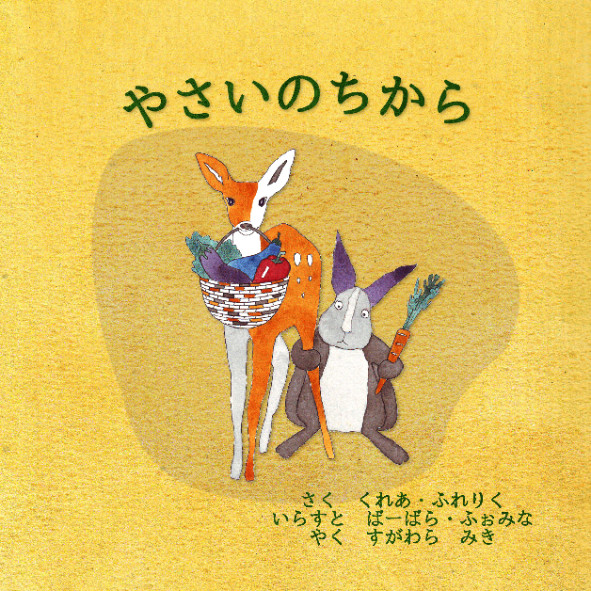
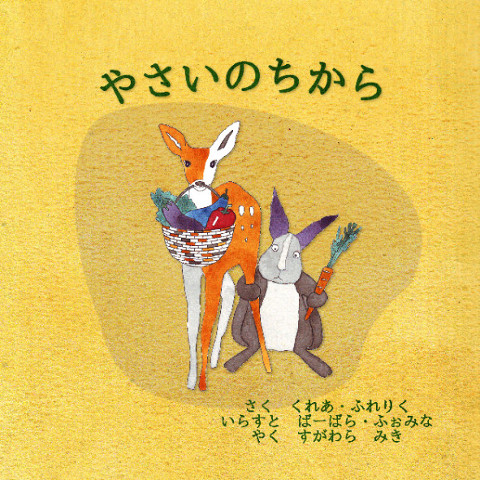
add fr book cover

diff --git a/src/pages/books.ja.js b/src/pages/books.ja.js
@@ -7,6 +7,7 @@ import { Link } from '../components/link'
 // images
 import imgEN from '../../static/images/thumbs/thumb_en.jpg'
 import imgJA from '../../static/images/thumbs/thumb_ja.jpg'
+import imgFR from '../../static/images/thumbs/thumb_fr.jpg'
 
 export default () => (
   <div className="page-books">
@@ -36,7 +37,7 @@ export default () => (
         renderLang='ja'
       />
       <BookCard
-        cover={imgEN}
+        cover={imgFR}
         lang="フランス語"
         kindleLink="#"
         paperbackLink="#"

diff --git a/src/pages/books.en.js b/src/pages/books.en.js
@@ -7,6 +7,7 @@ import { Link } from '../components/link'
 // images
 import imgEN from '../../static/images/thumbs/thumb_en.jpg'
 import imgJA from '../../static/images/thumbs/thumb_ja.jpg'
+import imgFR from '../../static/images/thumbs/thumb_fr.jpg'
 
 export default () => (
   <div className="page-books">
@@ -28,7 +29,7 @@ export default () => (
         paperbackLink="#"
       />
       <BookCard
-        cover={imgEN}
+        cover={imgFR}
         lang="French"
         kindleLink="#"
         paperbackLink="#"

diff --git a/src/pages/books.fr.js b/src/pages/books.fr.js
@@ -7,6 +7,7 @@ import { Link } from '../components/link'
 // images
 import imgEN from '../../static/images/thumbs/thumb_en.jpg'
 import imgJA from '../../static/images/thumbs/thumb_ja.jpg'
+import imgFR from '../../static/images/thumbs/thumb_fr.jpg'
 
 export default () => (
   <div className="page-books">
@@ -23,7 +24,7 @@ export default () => (
       </div>
 
       <BookCard
-        cover={imgEN}
+        cover={imgFR}
         lang="français"
         renderLang="fr"
         kindleLink="#"

diff --git a/src/pages/contact.fr.js b/src/pages/contact.fr.js
@@ -15,7 +15,7 @@ export default () => (
         <div className="title-box">
           <h2 className="ta-center">Contact</h2>
           <p>Vous avez une question ou une critique de livre ?</p>
-          <p>Contactez l'auteur à partir du formulaire ci-dessous.</p>
+          <p>Contactez l'auteure à partir du formulaire ci-dessous.</p>
         </div>
         <ContactForm />
       </div>
